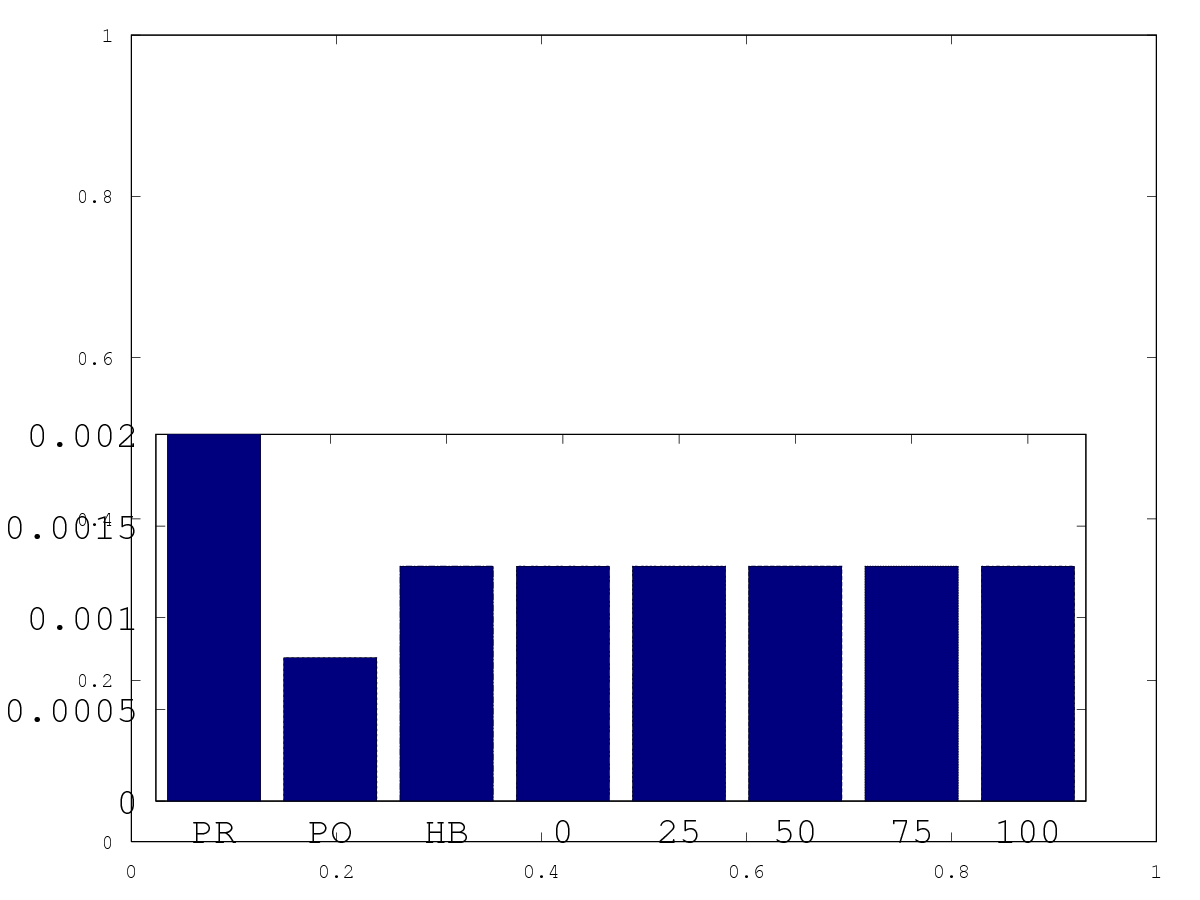
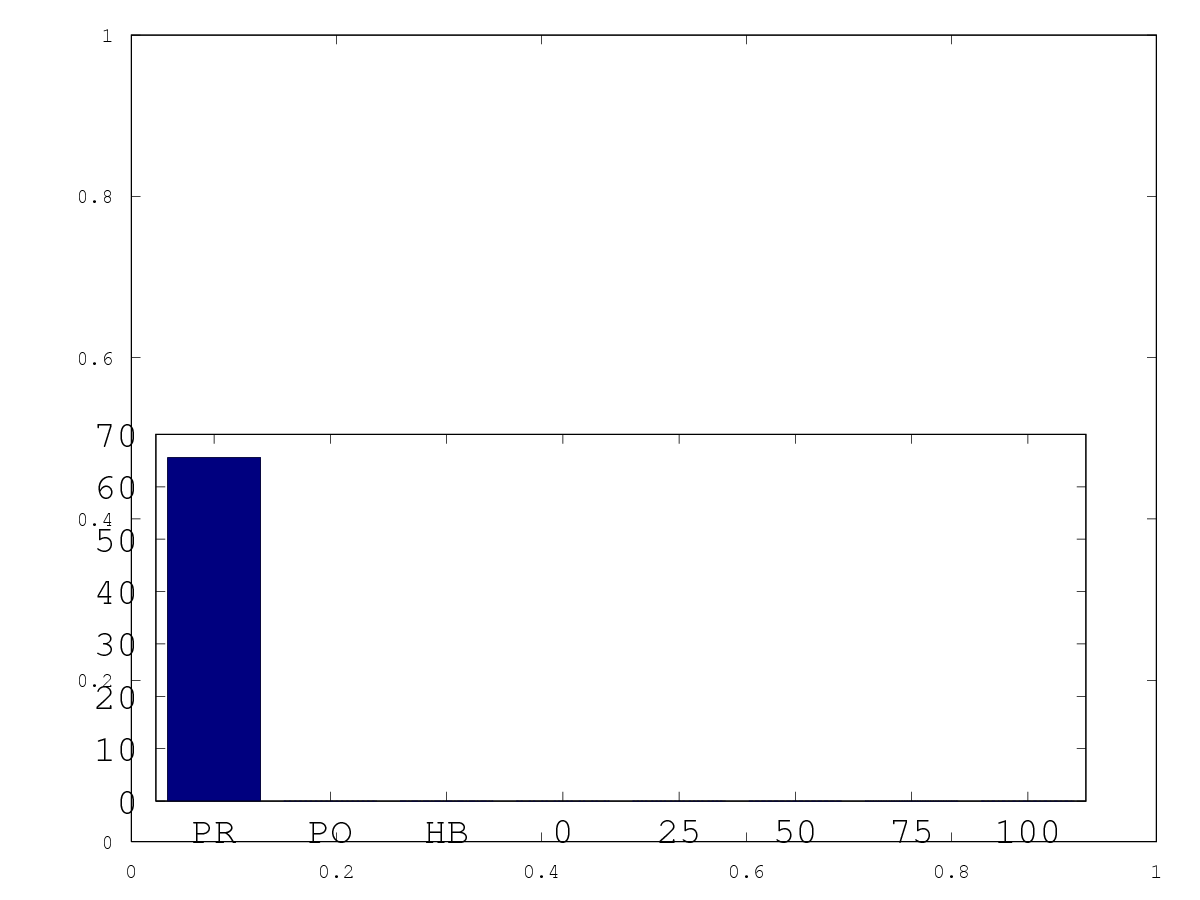
basic_break.m

diff --git a/basic_break.m b/basic_break.m
@@ -299,9 +299,9 @@ p0 = get (gca, 'position');
 a1 = axes ('position', [p0(1) p0(2) p0(3) p0(4)/2]);
 
 bar(xintervals, A(:,2))
-%set(gca, 'XTick', xintervals, 'XTickLabel', x, 'FontSize', fontsize)
-set(a1, 'XTick', xintervals, 'XTickLabel', x, 'FontSize', fontsize)
-set (a1, 'ylim', ylim1);
+set(gca, 'XTick', xintervals, 'XTickLabel', x, 'FontSize', fontsize)
+%set(a1, 'XTick', xintervals, 'XTickLabel', x, 'FontSize', fontsize)
+%set (a1, 'ylim', ylim1);
 %set(a1, 'xtick', []);
 %xlabel('COPY METHOD', 'FontSize', fontsize);
 %ylabel('DOWNTIME (SEC)', 'FontSize', fontsize);
